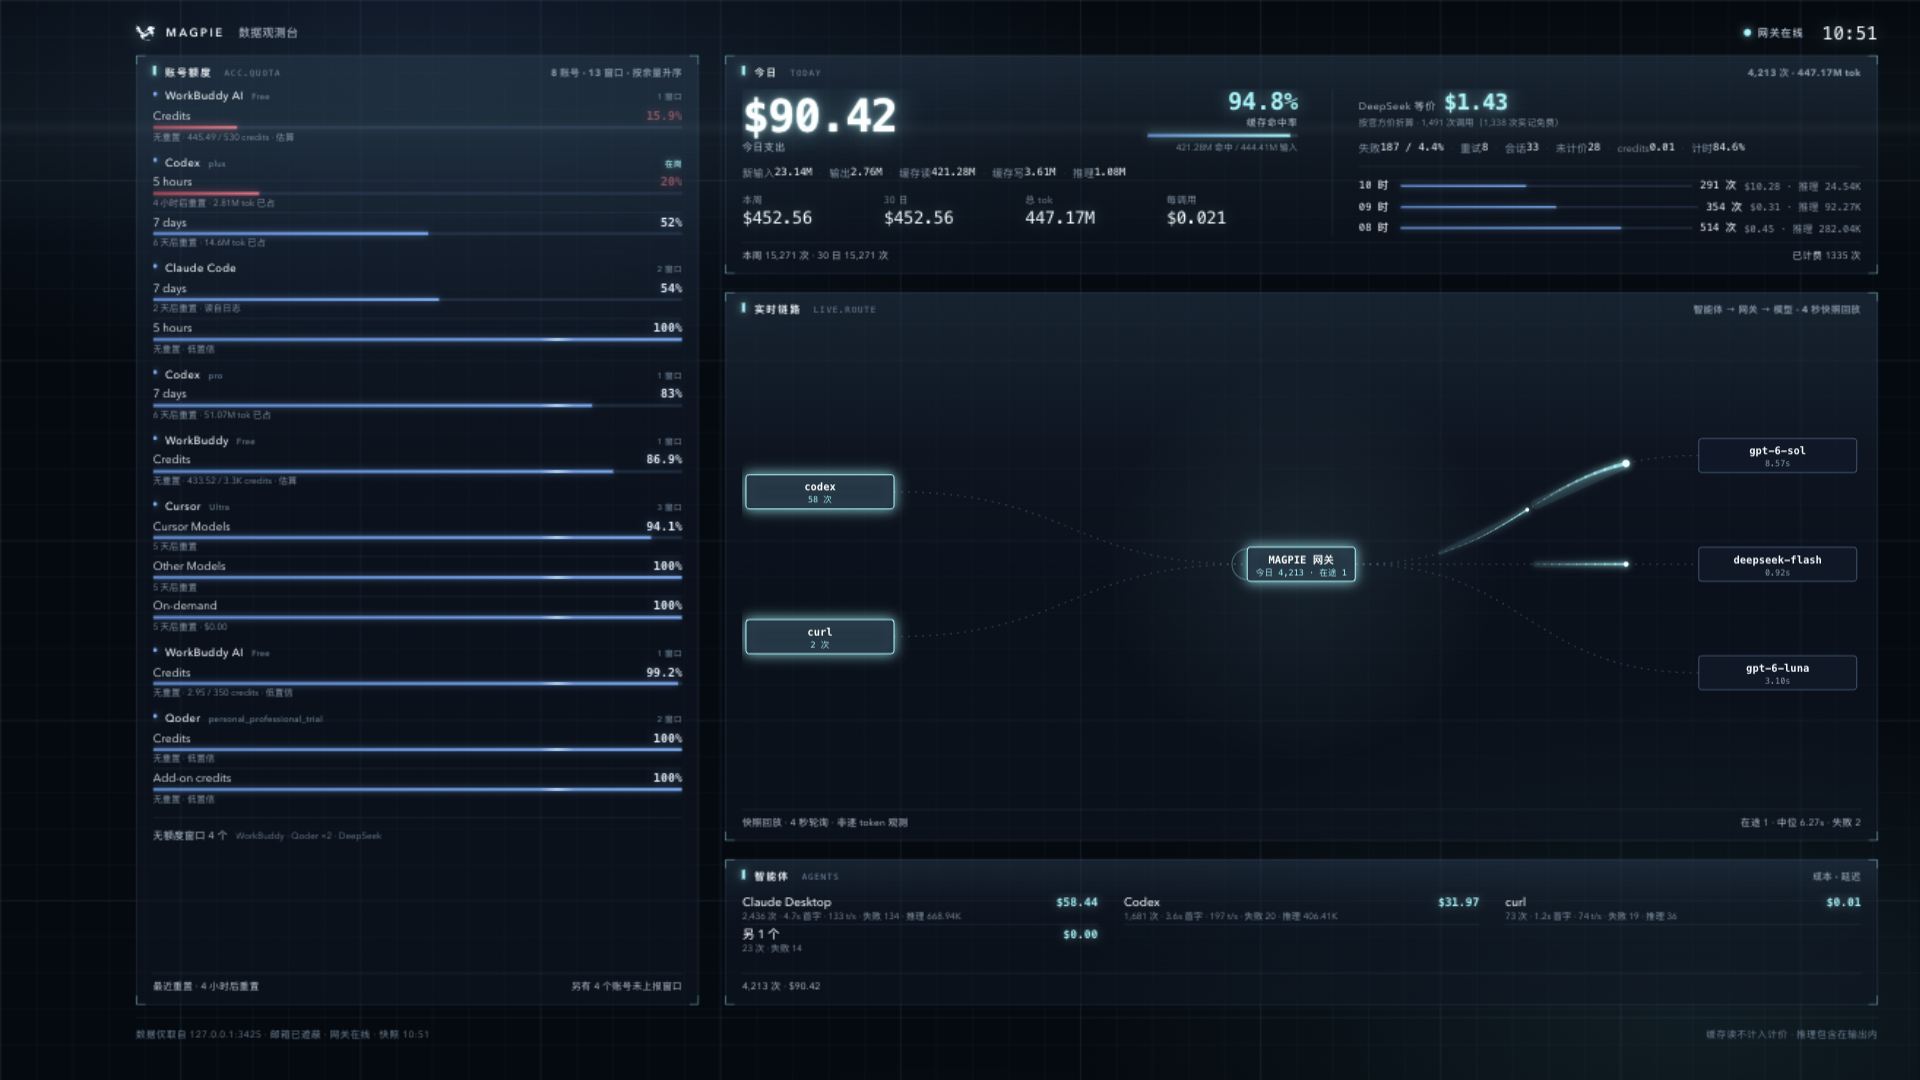
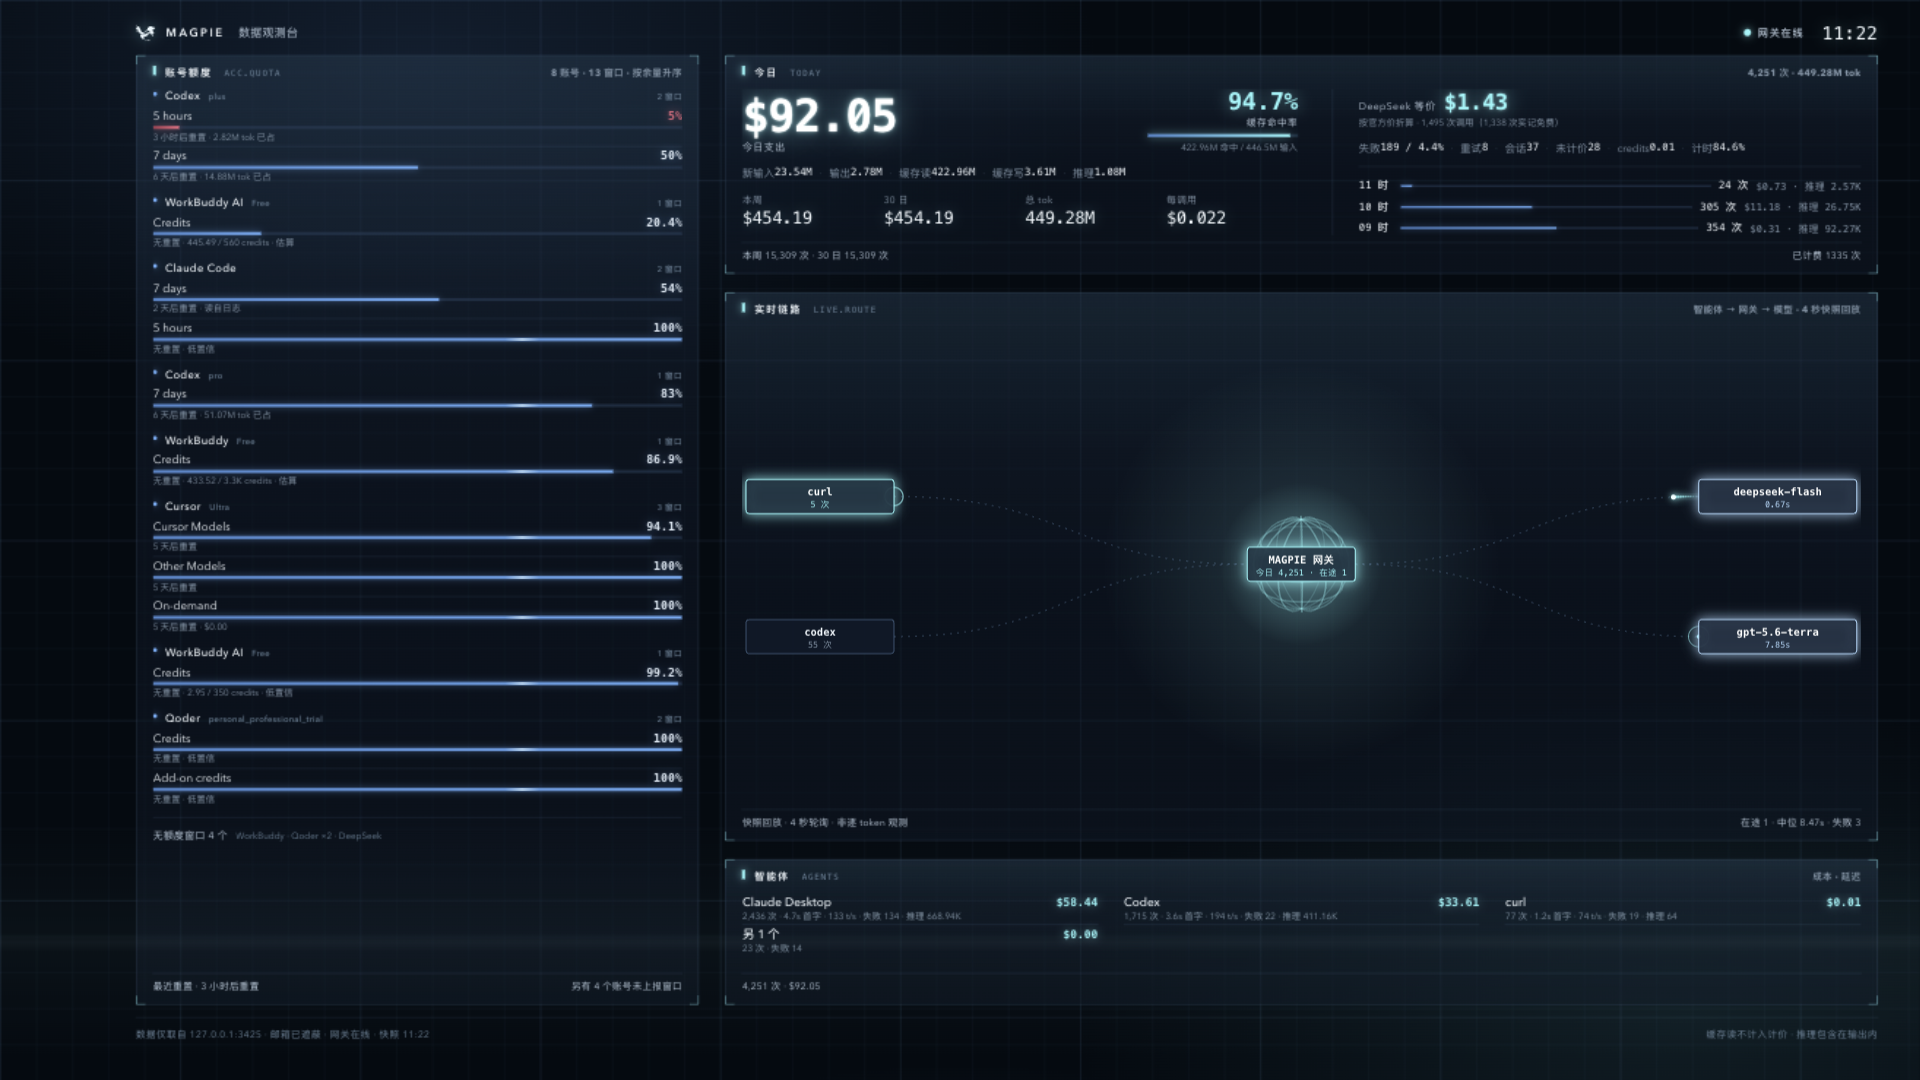
网关 3D 核心常驻：运转态随吞吐加速变亮，过境弹跳

diff --git a/design/dashboard.js b/design/dashboard.js
@@ -397,7 +397,9 @@
   const routeSpent = new Set();   // 已回放过的 route id：同一条路由只播一次
   const routeNodes = { agents: new Map(), models: new Map() }; // name -> { state: in|live|out, since, y }
   const routeRipples = [];        // 包裹进出网关的涟漪
-  let routeCoreAlpha = 0;         // 待机核心（3D 呼吸球 + 声呐）的淡入淡出：只在都未触发时出现
+  let routeCoreAlpha = 0;         // 3D 核心的入场淡入
+  let routeCoreKick = 0;          // 包裹穿过网关时球体的弹跳脉冲（0–1，衰减）
+  const gwEnergyRef = { n: 0 };   // 本帧过境 + 停泊的包裹数，驱动核心转速与亮度
   let routeBoot = false;          // 首帧只回放最新几条，历史路由不补播
   let routeRaf = 0;
   let routeLastTs = 0;
@@ -511,15 +513,26 @@
     ctx.restore();
   }
 
-  /** 待机核心：绕 Y 轴慢转的 3D 线框球，随呼吸缩放；深度以透明度与线宽表达（后暗前亮）。 */
-  function drawGatewayCore(ctx, cx, cy, now, reduce, coreAlpha) {
+  /** 网关 3D 核心：绕 Y 轴旋转的线框球，常驻网关——待机慢转呼吸，运转随吞吐加速变亮。
+      深度以透明度与线宽表达（后暗前亮）；包裹穿过时 kick 让球体弹跳放大。 */
+  function drawGatewayCore(ctx, cx, cy, now, reduce, alpha, energy) {
     const breath = reduce ? 0 : Math.sin(now / 900);
-    const R = 46 * (1 + 0.07 * breath);
-    const yaw = reduce ? 0.6 : now / 3000;
+    const spin = reduce ? 0.35 : 0.35 + energy * 1.6 + routeCoreKick * 0.8;   // 转/秒
+    const R = 46 * (1 + 0.07 * breath * (1 - energy) + 0.12 * routeCoreKick);
+    const yaw = (reduce ? 0.6 : (now / 1000) * spin * Math.PI * 2 / 2);
     const tilt = -0.38;
     const sinT = Math.sin(tilt), cosT = Math.cos(tilt);
     const SEG = 32;
+    const glowK = 0.75 + 0.5 * energy + 0.35 * routeCoreKick;
     ctx.save();
+    // 能量高时加一圈外发光。
+    if (!reduce && energy > 0.05) {
+      const halo = ctx.createRadialGradient(cx, cy, R * 0.2, cx, cy, R * 1.7);
+      halo.addColorStop(0, 'rgba(111, 242, 255, ' + Math.min(0.30, 0.08 + 0.20 * energy + 0.12 * routeCoreKick).toFixed(3) + ')');
+      halo.addColorStop(1, 'rgba(111, 242, 255, 0)');
+      ctx.fillStyle = halo;
+      ctx.fillRect(cx - R * 1.7, cy - R * 1.7, R * 3.4, R * 3.4);
+    }
     ctx.strokeStyle = ROUTE_C.request;
     const strokeCircle3D = (points, base) => {
       for (let i = 0; i < points.length; i += 1) {
@@ -529,8 +542,8 @@
         const a = [cx + ax, cy + ay * cosT - az * sinT, ay * sinT + az * cosT];
         const b = [cx + bx, cy + by * cosT - bz * sinT, by * sinT + bz * cosT];
         const k = ((a[2] + b[2]) / 2 / R + 1) / 2;
-        ctx.globalAlpha = coreAlpha * base * (0.22 + 0.55 * k);
-        ctx.lineWidth = 0.7 + 0.6 * k;
+        ctx.globalAlpha = Math.min(1, alpha * base * glowK * (0.22 + 0.55 * k));
+        ctx.lineWidth = 0.7 + 0.6 * k + energy * 0.5;
         ctx.beginPath();
         ctx.moveTo(a[0], a[1]);
         ctx.lineTo(b[0], b[1]);
@@ -612,21 +625,23 @@
     const agentPos = layout(routeNodes.agents);
     const modelPos = layout(routeNodes.models);
 
-    // 网关底光：待机且都未触发时随核心呼吸，忙碌时恒定微光——机舱的核心总有一点亮。
-    const coreTarget = (stageIdle && !routeNodes.agents.size && !routeNodes.models.size) ? 1 : 0;
-    routeCoreAlpha += (coreTarget - routeCoreAlpha) * (reduce ? 1 : 0.06);
-    if (Math.abs(coreTarget - routeCoreAlpha) > 0.02) routeLayoutBusy = true;
+    // 网关底光 + 3D 核心：核心常驻——待机慢转呼吸，运转随吞吐（在途+过境数）加速变亮。
+    routeCoreAlpha += (1 - routeCoreAlpha) * (reduce ? 1 : 0.06);
+    if (routeCoreAlpha < 0.98) routeLayoutBusy = true;
+    routeCoreKick *= reduce ? 0 : 0.90;
+    if (routeCoreKick > 0.02) routeLayoutBusy = true;
+    const energy = Math.min(1, (stageIdle ? 0 : 0.3) + 0.25 * Math.min(3, gwEnergyRef.n) + 0.5 * routeCoreKick);
     const gwGlow = stageIdle
       ? 0.08 + routeCoreAlpha * (reduce ? 0.02 : 0.02 + 0.06 * (0.5 + 0.5 * Math.sin(now / 700)))
-      : 0.08;
+      : 0.08 + routeCoreAlpha * (0.04 + 0.07 * energy);
     const gwGlowR = Math.min(W, H) * 0.42;
     const underglow = ctx.createRadialGradient(W / 2, H / 2, 0, W / 2, H / 2, gwGlowR);
     underglow.addColorStop(0, 'rgba(111, 242, 255, ' + gwGlow.toFixed(3) + ')');
     underglow.addColorStop(1, 'rgba(111, 242, 255, 0)');
     ctx.fillStyle = underglow;
     ctx.fillRect(W / 2 - gwGlowR, H / 2 - gwGlowR, gwGlowR * 2, gwGlowR * 2);
-    // 待机核心：3D 线框球绕轴慢转，随呼吸缩放——只在都未触发时出现。
-    if (routeCoreAlpha > 0.02) drawGatewayCore(ctx, W / 2, H / 2, now, reduce, routeCoreAlpha);
+    // 3D 核心常驻：能量驱动转速与亮度；待机时是慢转呼吸态。
+    if (routeCoreAlpha > 0.02) drawGatewayCore(ctx, W / 2, H / 2, now, reduce, routeCoreAlpha, energy);
 
     // 链路底图：虚线，随节点一起淡入淡出。
     ctx.save();
@@ -659,8 +674,8 @@
     });
     ctx.restore();
 
-    // 待机声呐：都未触发时，网关一圈圈向外呼吸（随核心一起淡入淡出）。
-    if (stageIdle && routeCoreAlpha > 0.02 && !reduce) {
+    // 待机声呐：都未触发（无行程无在途、芯片也全部退场）时，网关一圈圈向外呼吸。
+    if (stageIdle && !routeNodes.agents.size && !routeNodes.models.size && routeCoreAlpha > 0.02 && !reduce) {
       for (let i = 0; i < 2; i += 1) {
         const p = ((now / 2600) + i * 0.5) % 1;
         const r = gwW / 2 + 6 + p * Math.min(H, W) * 0.32;
@@ -696,6 +711,7 @@
         if (t >= 1) {
           trip.phase = 'req2'; trip.startedAt = now;
           routeRipples.push({ x: gwX, y: H / 2, at: now, color: trip.color });
+          routeCoreKick = Math.min(1, routeCoreKick + 0.55);   // 球体弹一下
         }
       } else if (trip.phase === 'req2') {
         const t = Math.min(1, elapsed / (ROUTE_T.req2 * speed));
@@ -732,6 +748,7 @@
         if (t >= 1) {
           trip.phase = 'res2'; trip.startedAt = now;
           routeRipples.push({ x: gwX + gwW, y: H / 2, at: now, color: trip.color });
+          routeCoreKick = Math.min(1, routeCoreKick + 0.55);   // 球体弹一下
         }
       } else if (trip.phase === 'res2') {
         const t = Math.min(1, elapsed / (ROUTE_T.res2 * speed));
@@ -756,6 +773,9 @@
         }
       }
     });
+
+    // 本帧能量：过境 + 停泊的包裹数（下一帧的核心转速/亮度用）。
+    gwEnergyRef.n = transit + parkedCount;
 
     // 涟漪：包裹进出网关的一圈水波。
     for (let i = routeRipples.length - 1; i >= 0; i -= 1) {

diff --git a/HANDOFF.md b/HANDOFF.md
@@ -6,14 +6,13 @@
 
 本文档面向后续开发者，记录当前实现边界、关键决策、接口约定、验证方法和建议的下一步。产品目标与设计原则见 [PRODUCT.md](PRODUCT.md)，用户安装说明见 [README.md](README.md)。
 
-## 2026-10-24：链路舞台按触发出场 + 3D 待机核心（当前）
+## 2026-10-24：链路舞台按触发出场 + 常驻 3D 网关核心（当前）
 
-- 用户需求：智能体/模型只在触发时出现，30 秒没有继续触发就消失；都未触发时网关自己做呼吸动画，效果更酷炫、最好有 3D。
+- 用户需求：智能体/模型只在触发时出现，30 秒没有继续触发就消失；网关自己做呼吸动画，被调用时也要保持酷炫的 3D 效果。
 - 节点存在性改为 TTL 语义：活动时刻 = 路由开始 +（已完成的）耗时，最近 30 秒内有活动（或仍有在途行程）才在舞台登记；30 秒无活动走 600ms 淡出。回放与补播同样只认 30 秒内有活动的路由（长请求按完整生命周期算）。
-- 待机核心 `routeCoreAlpha`：只在「无行程、无在途、两个登记表全空（都未触发）」时淡入到 1，否则淡出到 0——3D 线框球 + 声呐 + 底光脉动都乘这个系数，芯片在场时舞台干净。
-- 3D 待机核心：绕 Y 轴慢转（3s/圈）的线框球（6 经线 + 3 纬线，32 段/圈），倾斜投影（-0.38rad 俯视角），z 深度决定每段透明度与线宽（后暗前亮），半径随呼吸 ±7%；叠加原有声呐环与底光脉动。Reduce Motion 下静止。
+- 3D 网关核心常驻（`drawGatewayCore`）：绕 Y 轴旋转的线框球（6 经线 + 3 纬线，32 段/圈，倾斜投影 -0.38rad，z 深度决定每段透明度与线宽，后暗前亮），网关芯片叠在球心。两个状态：**待机呼吸态**（都未触发时）约 0.35 转/秒慢转、半径 ±7% 呼吸、声呐环外扩、底光脉动；**运转态**（有流量时）能量 = 0.3 + 0.25×(在途+停泊包裹数, ≤3) + 过境弹跳，转速最高约 2.7 转/秒、线宽与亮度随能量提升、外圈辉光随能量增强；包裹每次穿过网关（进和出）球体弹跳放大（`routeCoreKick`，0.90/帧衰减）。Reduce Motion 下静止慢速。
 - 已知平台行为不变：隐藏标签页 rAF 节流会让预览静止，真实壁纸窗口不受影响。
-- 本轮验证：三阶段真实流量截图——纯待机（只有 3D 核心）/ 触发后（芯片登场、核心淡出）/ 32 秒后（芯片退场、核心回归，页脚「网关待机」）。
+- 本轮验证：真实流量截图——纯待机（慢转呼吸 + 声呐，无芯片）/ 运转态连拍（芯片在场、球体快转亮线、辉光增强、包裹过境弹跳）。
 
 ## 2026-10-24：实时链路升格为主视觉，移除实时数据流
 

diff --git a/DESIGN.md b/DESIGN.md
@@ -150,7 +150,7 @@ components:
 - **节点生命周期:** 智能体与模型**只在触发时出现**——最近 30 秒内有活动（活动时刻 = 路由完成时刻，长请求按完整生命周期算）或仍有在途行程才登场：500ms 淡入；30 秒无活动 600ms 原地淡出；位置按稳定序缓动重排；正在飞行的行程优先保住自己的端点芯片，彗星跟随节点移动
 - **链路:** 虚线 S 形贝塞尔；包裹彗星沿链路移动，粗细按 log(token 体量) 1.4–3.6px
 - **状态:** 请求程青、回程冰蓝、失败红；在途包裹停在模型处脉冲，快照确认完成才放行；每条路由只回放一次；包裹进出网关在网关边缘激起涟漪
-- **待机核心:** 都未触发时网关自己呼吸——绕轴慢转的 3D 线框球（6 经线 + 3 纬线，深度后暗前亮）+ 两层声呐环 + 底光脉动，随呼吸 ±7% 缩放；芯片一旦在场即淡出，干净让位给真实流量。页脚常驻「快照回放 · 4 秒轮询 · 非逐 token 观测」并吸收在途/中位/失败读数
+- **网关 3D 核心（常驻）:** 绕轴旋转的线框球（6 经线 + 3 纬线，深度后暗前亮）永远罩着网关芯片——待机呼吸态慢转 ±7% 起伏 + 声呐环；运转态随吞吐（在途+停泊包裹数）加速到最高约 2.7 转/秒、线更宽更亮、外圈辉光增强，包裹每次穿网关球体弹跳放大。页脚常驻「快照回放 · 4 秒轮询 · 非逐 token 观测」并吸收在途/中位/失败读数
 
 ### KPI 条
 - **形状:** 上下发丝线夹一行，竖线分格，mono 21px 白字青辉
